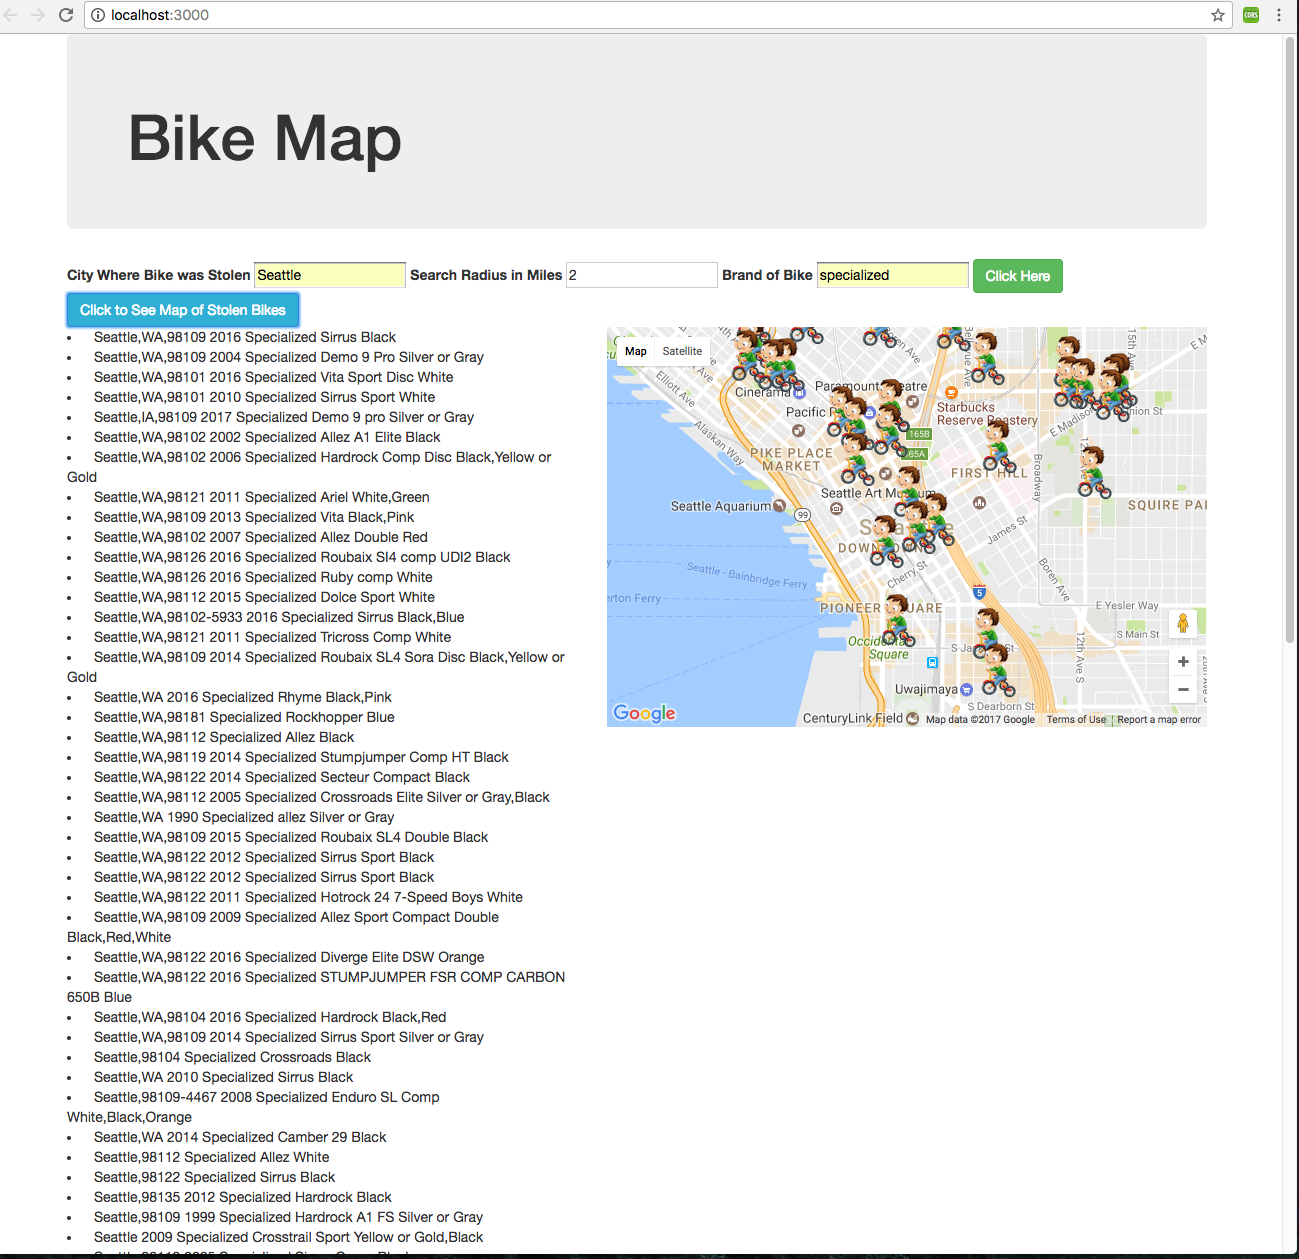
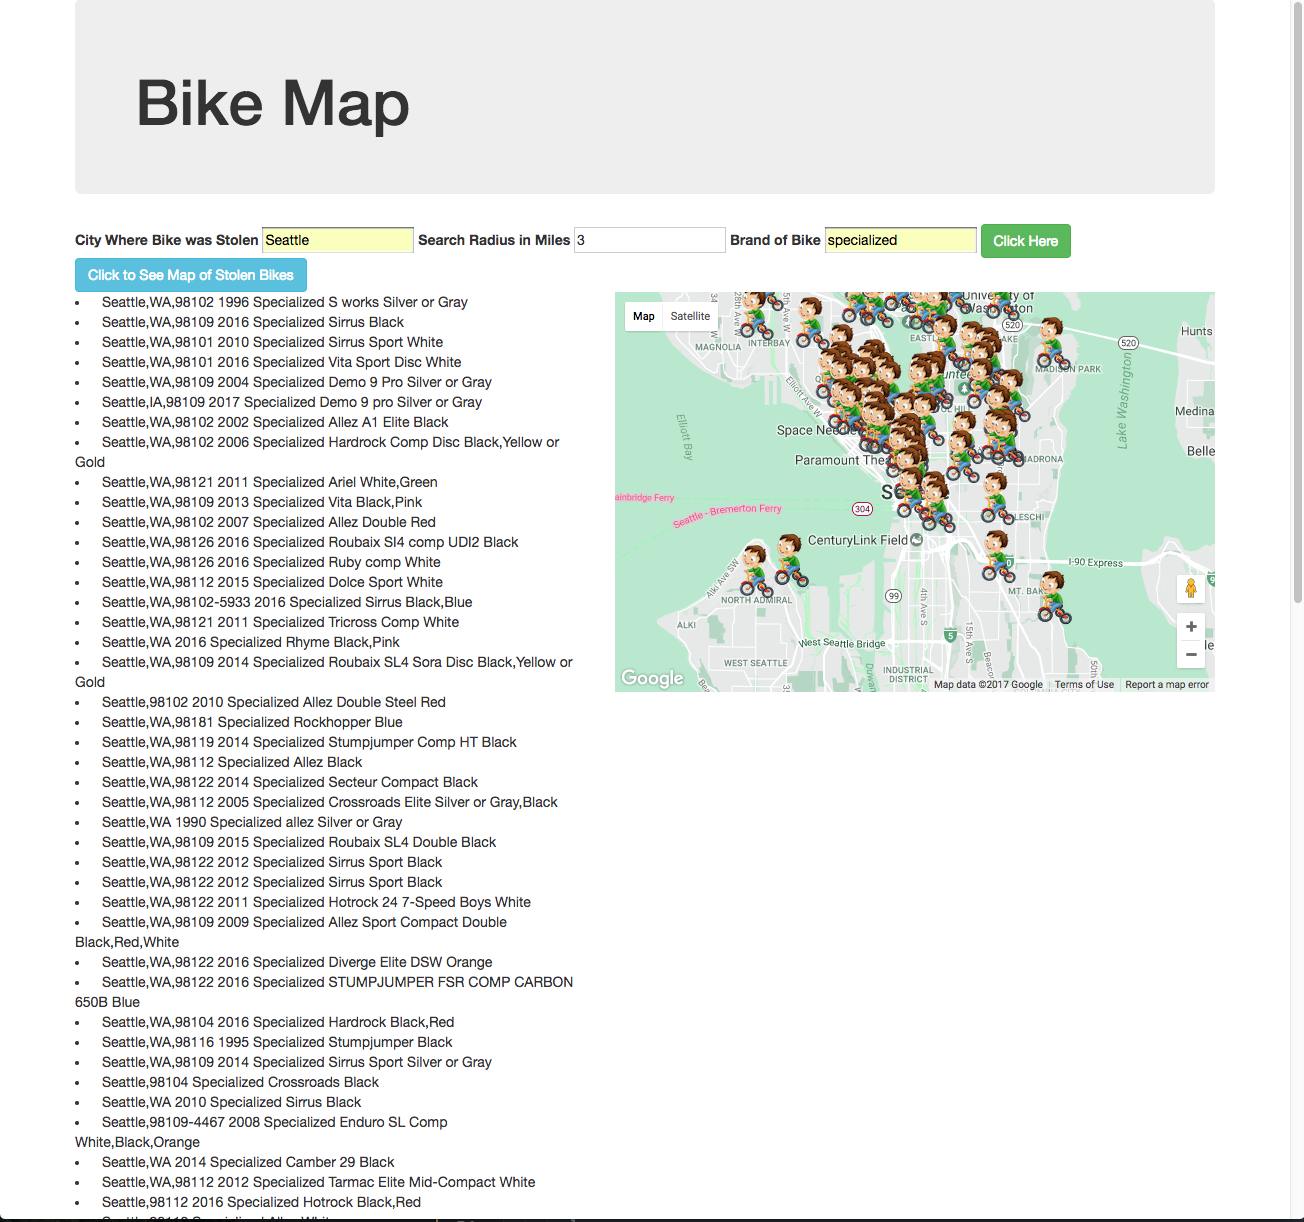
upate google map theme

diff --git a/js/bike.js b/js/bike.js
@@ -8,6 +8,9 @@ Bike.prototype.getBike = function(city, brand, distance, bikeInfo, cityCoordinat
   .then(function(response) {
     bikeInfo(response.bikes.stolen_location, response.bikes.title, response.bikes.frame_colors, response.bikes.id, response.bikes);
   });
+  // .fail(function(error){
+  //   $('.output').text(error.responseJSON.message);
+  // });
   $.get('https://maps.googleapis.com/maps/api/geocode/json?address=' + city)
   .then(function(response1){
     var cityCoord = {lat: response1.results[0].geometry.location.lat, lng: response1.results[0].geometry.location.lng};
@@ -16,7 +19,36 @@ Bike.prototype.getBike = function(city, brand, distance, bikeInfo, cityCoordinat
 
     var map = new google.maps.Map(document.getElementById('map'), {
       zoom: 14,
-      center: cityCoord
+      center: cityCoord,
+      styles: [
+        {
+          stylers: [
+            { hue: "#00ff6f" },
+            { saturation: -50 }
+          ]
+        }, {
+          featureType: "road",
+          elementType: "geometry",
+          stylers: [
+            { lightness: 100 },
+            { visibility: "simplified" }
+          ]
+        }, {
+          featureType: "transit",
+          elementType: "geometry",
+          stylers: [
+            { hue: "#76FF92" },
+            { saturation: +80 }
+          ]
+        }, {
+          featureType: "transit",
+          elementType: "labels",
+          stylers: [
+            { hue: "#ff0066" },
+            { saturation: +80 }
+          ]
+        }
+      ]
     });
   });
   // .fail(function(error){
@@ -28,7 +60,36 @@ Bike.prototype.bikeMap = function(ids, coordinates) {
   var cityCoordinates = coordinates[0];
   var map = new google.maps.Map(document.getElementById('map'), {
     zoom: 14,
-    center: cityCoordinates
+    center: cityCoordinates,
+    styles: [
+      {
+        stylers: [
+          { hue: "#00ff6f" },
+          { saturation: -50 }
+        ]
+      }, {
+        featureType: "road",
+        elementType: "geometry",
+        stylers: [
+          { lightness: 100 },
+          { visibility: "simplified" }
+        ]
+      }, {
+        featureType: "transit",
+        elementType: "geometry",
+        stylers: [
+          { hue: "#76FF92" },
+          { saturation: +80 }
+        ]
+      }, {
+        featureType: "transit",
+        elementType: "labels",
+        stylers: [
+          { hue: "#ff0066" },
+          { saturation: +80 }
+        ]
+      }
+    ]
   });
 
   ids.forEach(function(id){

diff --git a/js/map-interface.js b/js/map-interface.js
@@ -5,7 +5,36 @@ $(document).ready(function() {
   var pdx = {lat: 45.5206297, lng: -122.6774804};
   var map = new google.maps.Map(document.getElementById('map'), {
     zoom: 18,
-    center: pdx
+    center: pdx,
+    styles: [
+      {
+        stylers: [
+          { hue: "#00ff6f" },
+          { saturation: -50 }
+        ]
+      }, {
+        featureType: "road",
+        elementType: "geometry",
+        stylers: [
+          { lightness: 100 },
+          { visibility: "simplified" }
+        ]
+      }, {
+        featureType: "transit",
+        elementType: "geometry",
+        stylers: [
+          { hue: "#76FF92" },
+          { saturation: +80 }
+        ]
+      }, {
+        featureType: "transit",
+        elementType: "labels",
+        stylers: [
+          { hue: "#ff0066" },
+          { saturation: +80 }
+        ]
+      }
+    ]
   });
 
   var marker = new google.maps.Marker({
@@ -13,33 +42,4 @@ $(document).ready(function() {
     map: map,
     icon: "images/m1.png"
   });
-  // styles: [
-  //   {
-  //     stylers: [
-  //       { hue: "#00ff6f" },
-  //       { saturation: -50 }
-  //     ]
-  //   }, {
-  //     featureType: "road",
-  //     elementType: "geometry",
-  //     stylers: [
-  //       { lightness: 100 },
-  //       { visibility: "simplified" }
-  //     ]
-  //   }, {
-  //     featureType: "transit",
-  //     elementType: "geometry",
-  //     stylers: [
-  //       { hue: "#76FF92" },
-  //       { saturation: +80 }
-  //     ]
-  //   }, {
-  //     featureType: "transit",
-  //     elementType: "labels",
-  //     stylers: [
-  //       { hue: "#ff0066" },
-  //       { saturation: +80 }
-  //     ]
-  //   }
-  // ];
 });

diff --git a/README.md b/README.md
@@ -8,7 +8,6 @@
 
 _This app calls a bike api and displays stolen bikes based off the user input. Then, it shows the stolen bikes on google maps, based off the stolen location_
 
-
 ## Setup/Installation Requirements
 
 ### Access Atom Files
